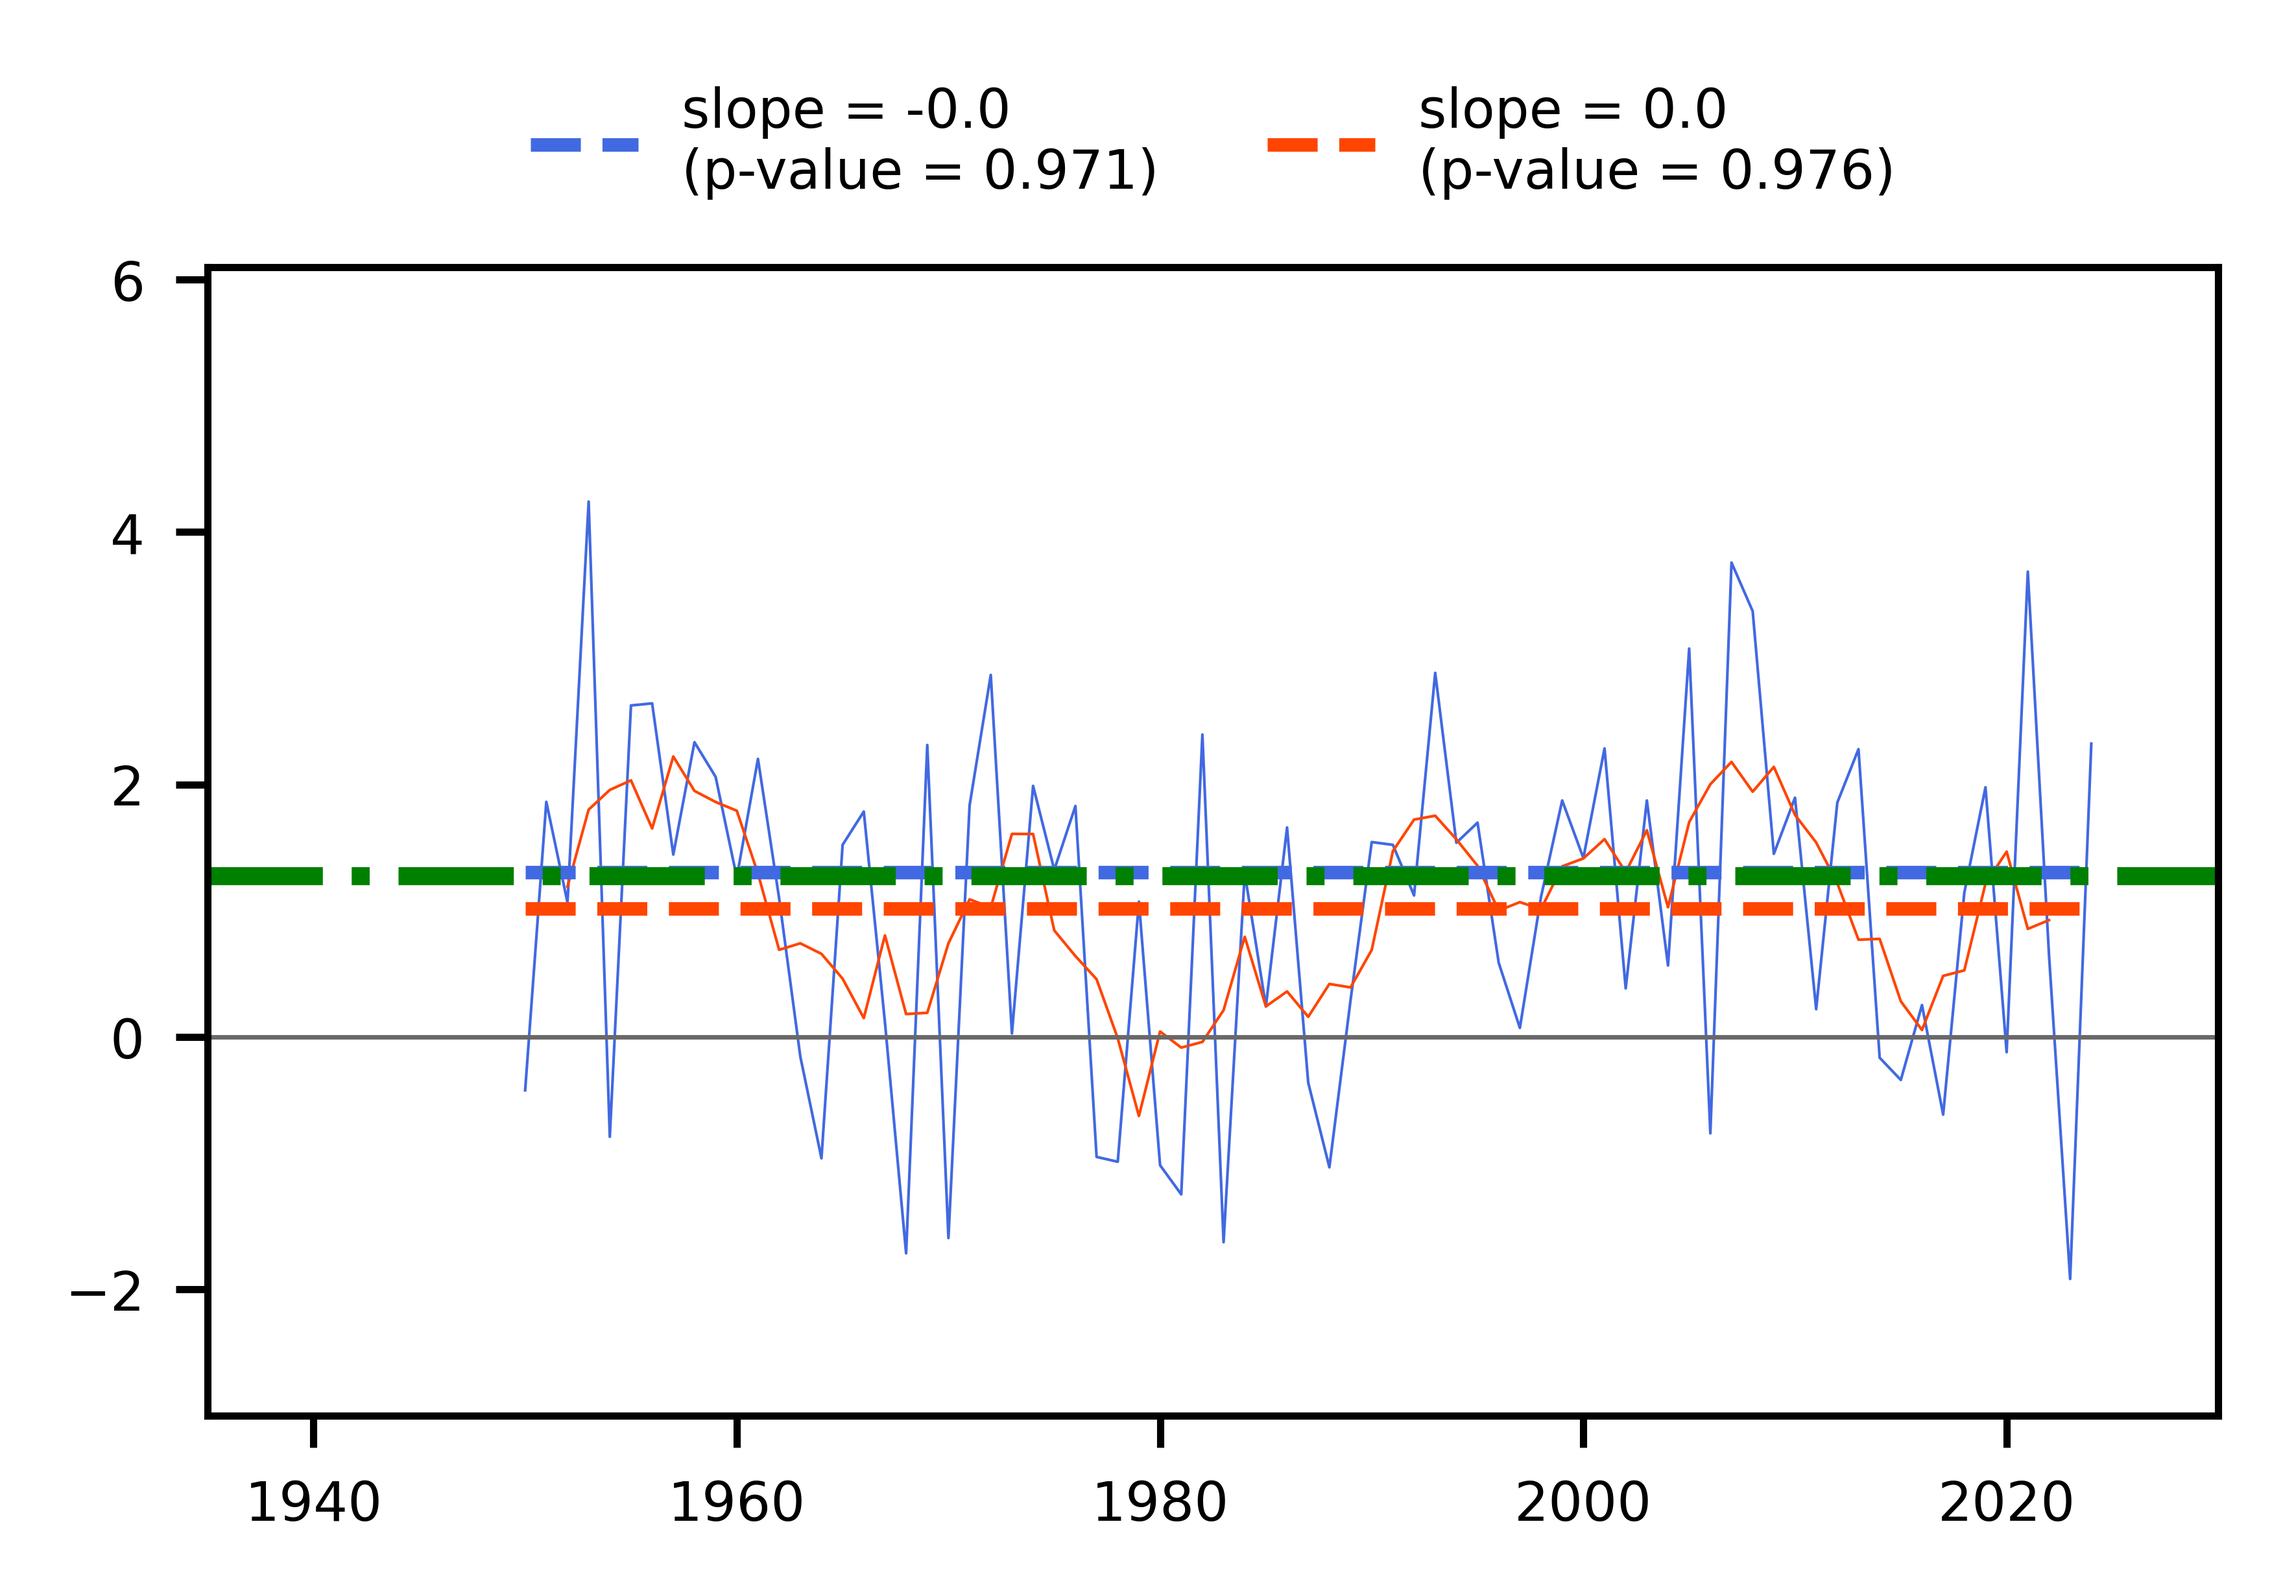
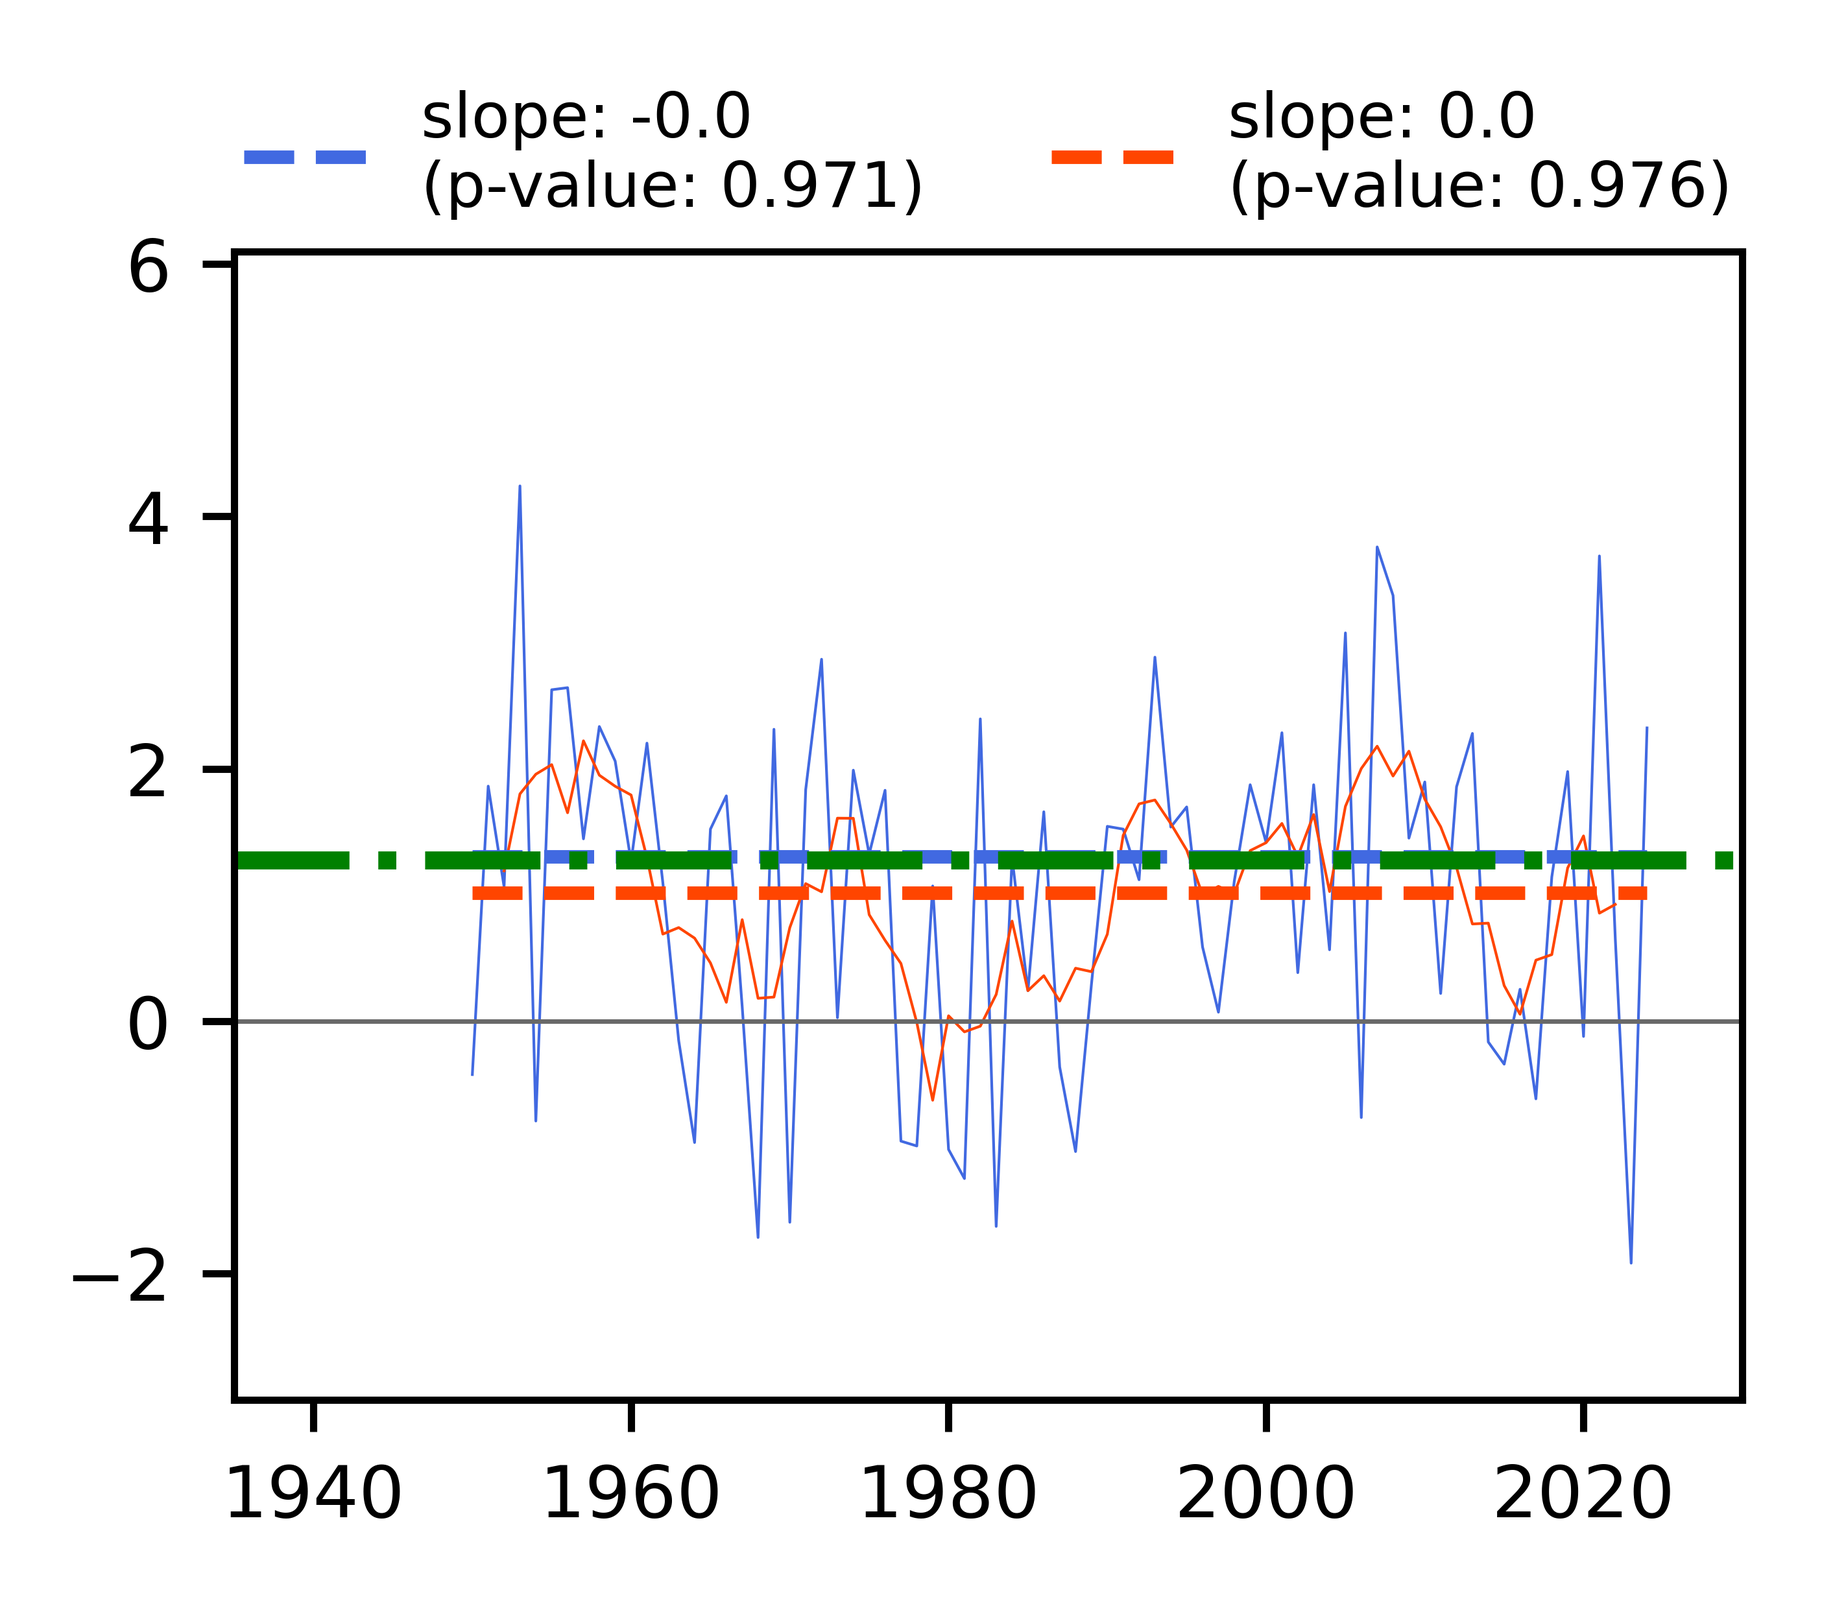
improved forecasts

Changed region(s): [[0.031, 0.0618, 0.9911, 0.9573]]

diff --git a/scripts/processed/11_plot_trend_pt.py b/scripts/processed/11_plot_trend_pt.py
@@ -70,17 +70,17 @@ for season in season_list:
         sen_slope = round(result.slope, 3)
         intercept = result.intercept
         trend_vals = sen_slope * np.arange( (year_f - year_s) + 1 ) + intercept
-        label_vals = f"slope = {sen_slope}\n(p-value = {pvalue})"
+        label_vals = f"slope: {sen_slope}\n(p-value: {pvalue})"
 
         result = mk.original_test(running_mean_centered)
         pvalue = round(result.p, 3)
         sen_slope = round(result.slope, 3)
         intercept = result.intercept
         trend_rm = sen_slope * np.arange( (year_f - year_s) + 1 ) + intercept
-        label_rm = f"slope = {sen_slope}\n(p-value = {pvalue})"
+        label_rm = f"slope: {sen_slope}\n(p-value: {pvalue})"
 
         # Plotting the timeseries and the trend
-        plt.figure(figsize=(4, 2.3))
+        plt.figure(figsize=(3, 2.3))
         plt.plot(year_list, curv_av, lw=0.3, color = "royalblue")
         plt.plot(year_list, running_mean_centered, lw=0.3, color = "orangered")
         plt.plot(year_list, trend_vals, "--", lw=1.5, color = "royalblue", label = label_vals)
@@ -89,11 +89,9 @@ for season in season_list:
         plt.plot([1935, 2030], [0,0], lw = 0.5, color = "dimgray")
         plt.xlim([1935, 2030])
         plt.ylim([-3, 6.1])
-        plt.xticks(fontsize=6)
-        plt.yticks(fontsize=6)
-        plt.legend(loc="upper center", bbox_to_anchor=(0.5, 1.18), ncol=2, frameon=False, fontsize=6)
-        plt.show()
-        exit()
+        plt.xticks(fontsize=8)
+        plt.yticks(fontsize=8)
+        plt.legend(loc="upper center", bbox_to_anchor=(0.5, 1.19), ncol=2, frameon=False, fontsize=7)
         
         # Saving the curv climatology plot
         dir_out_temp = f"{dir_out}/{name_pt}/{year_s}_{year_f}"
